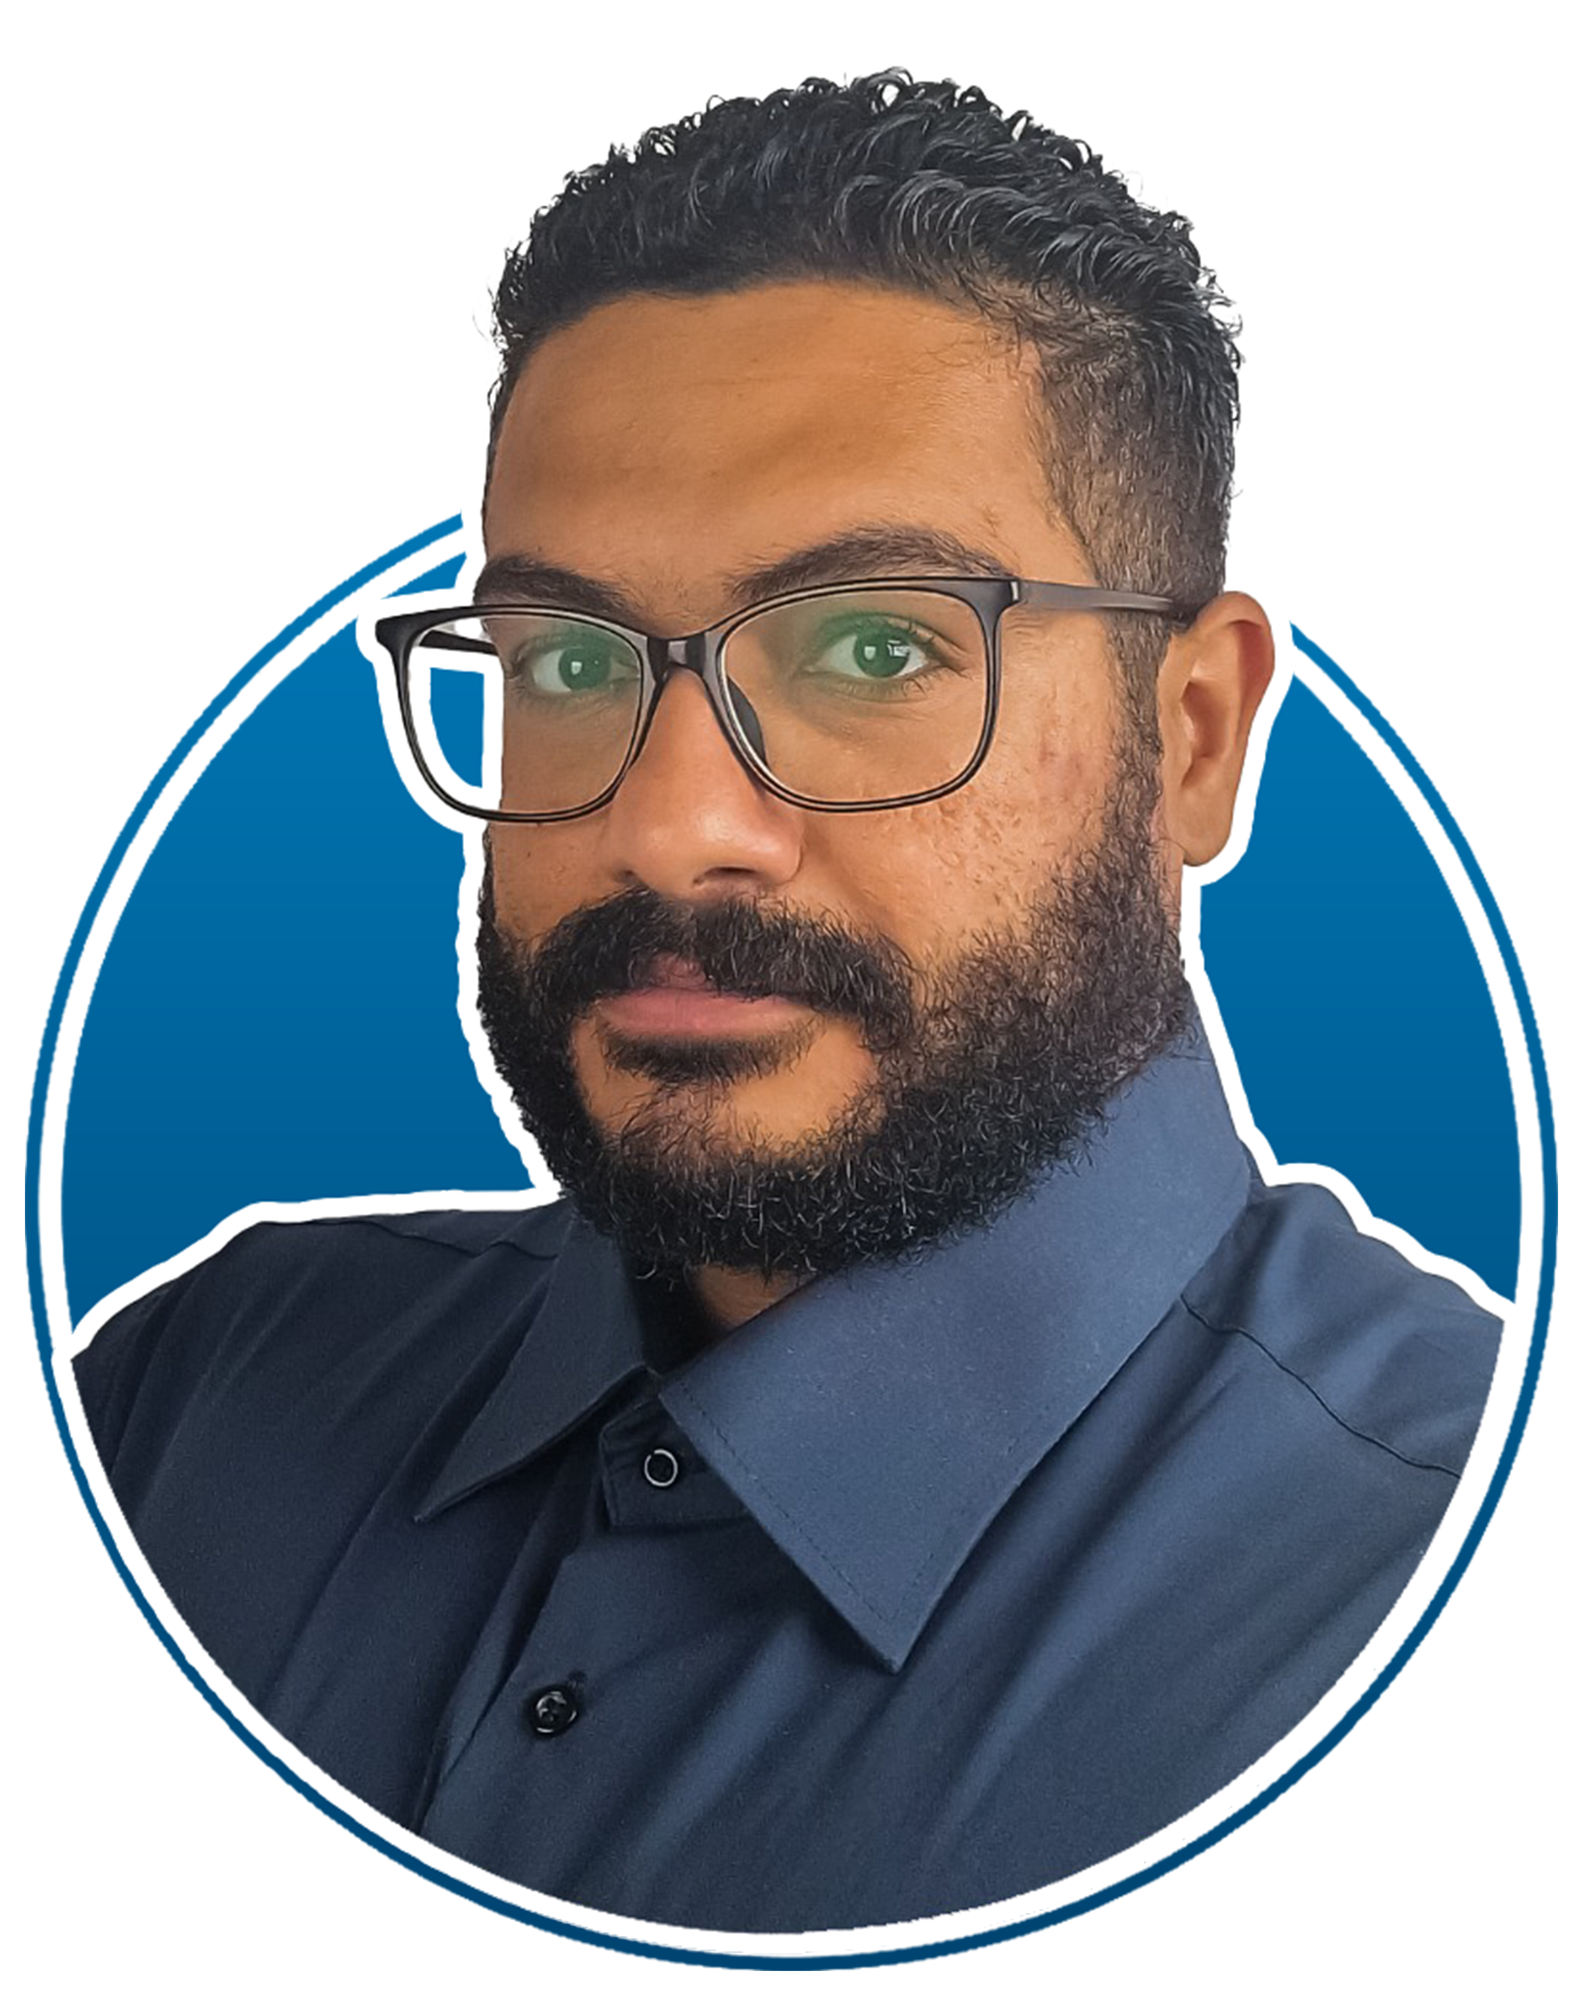
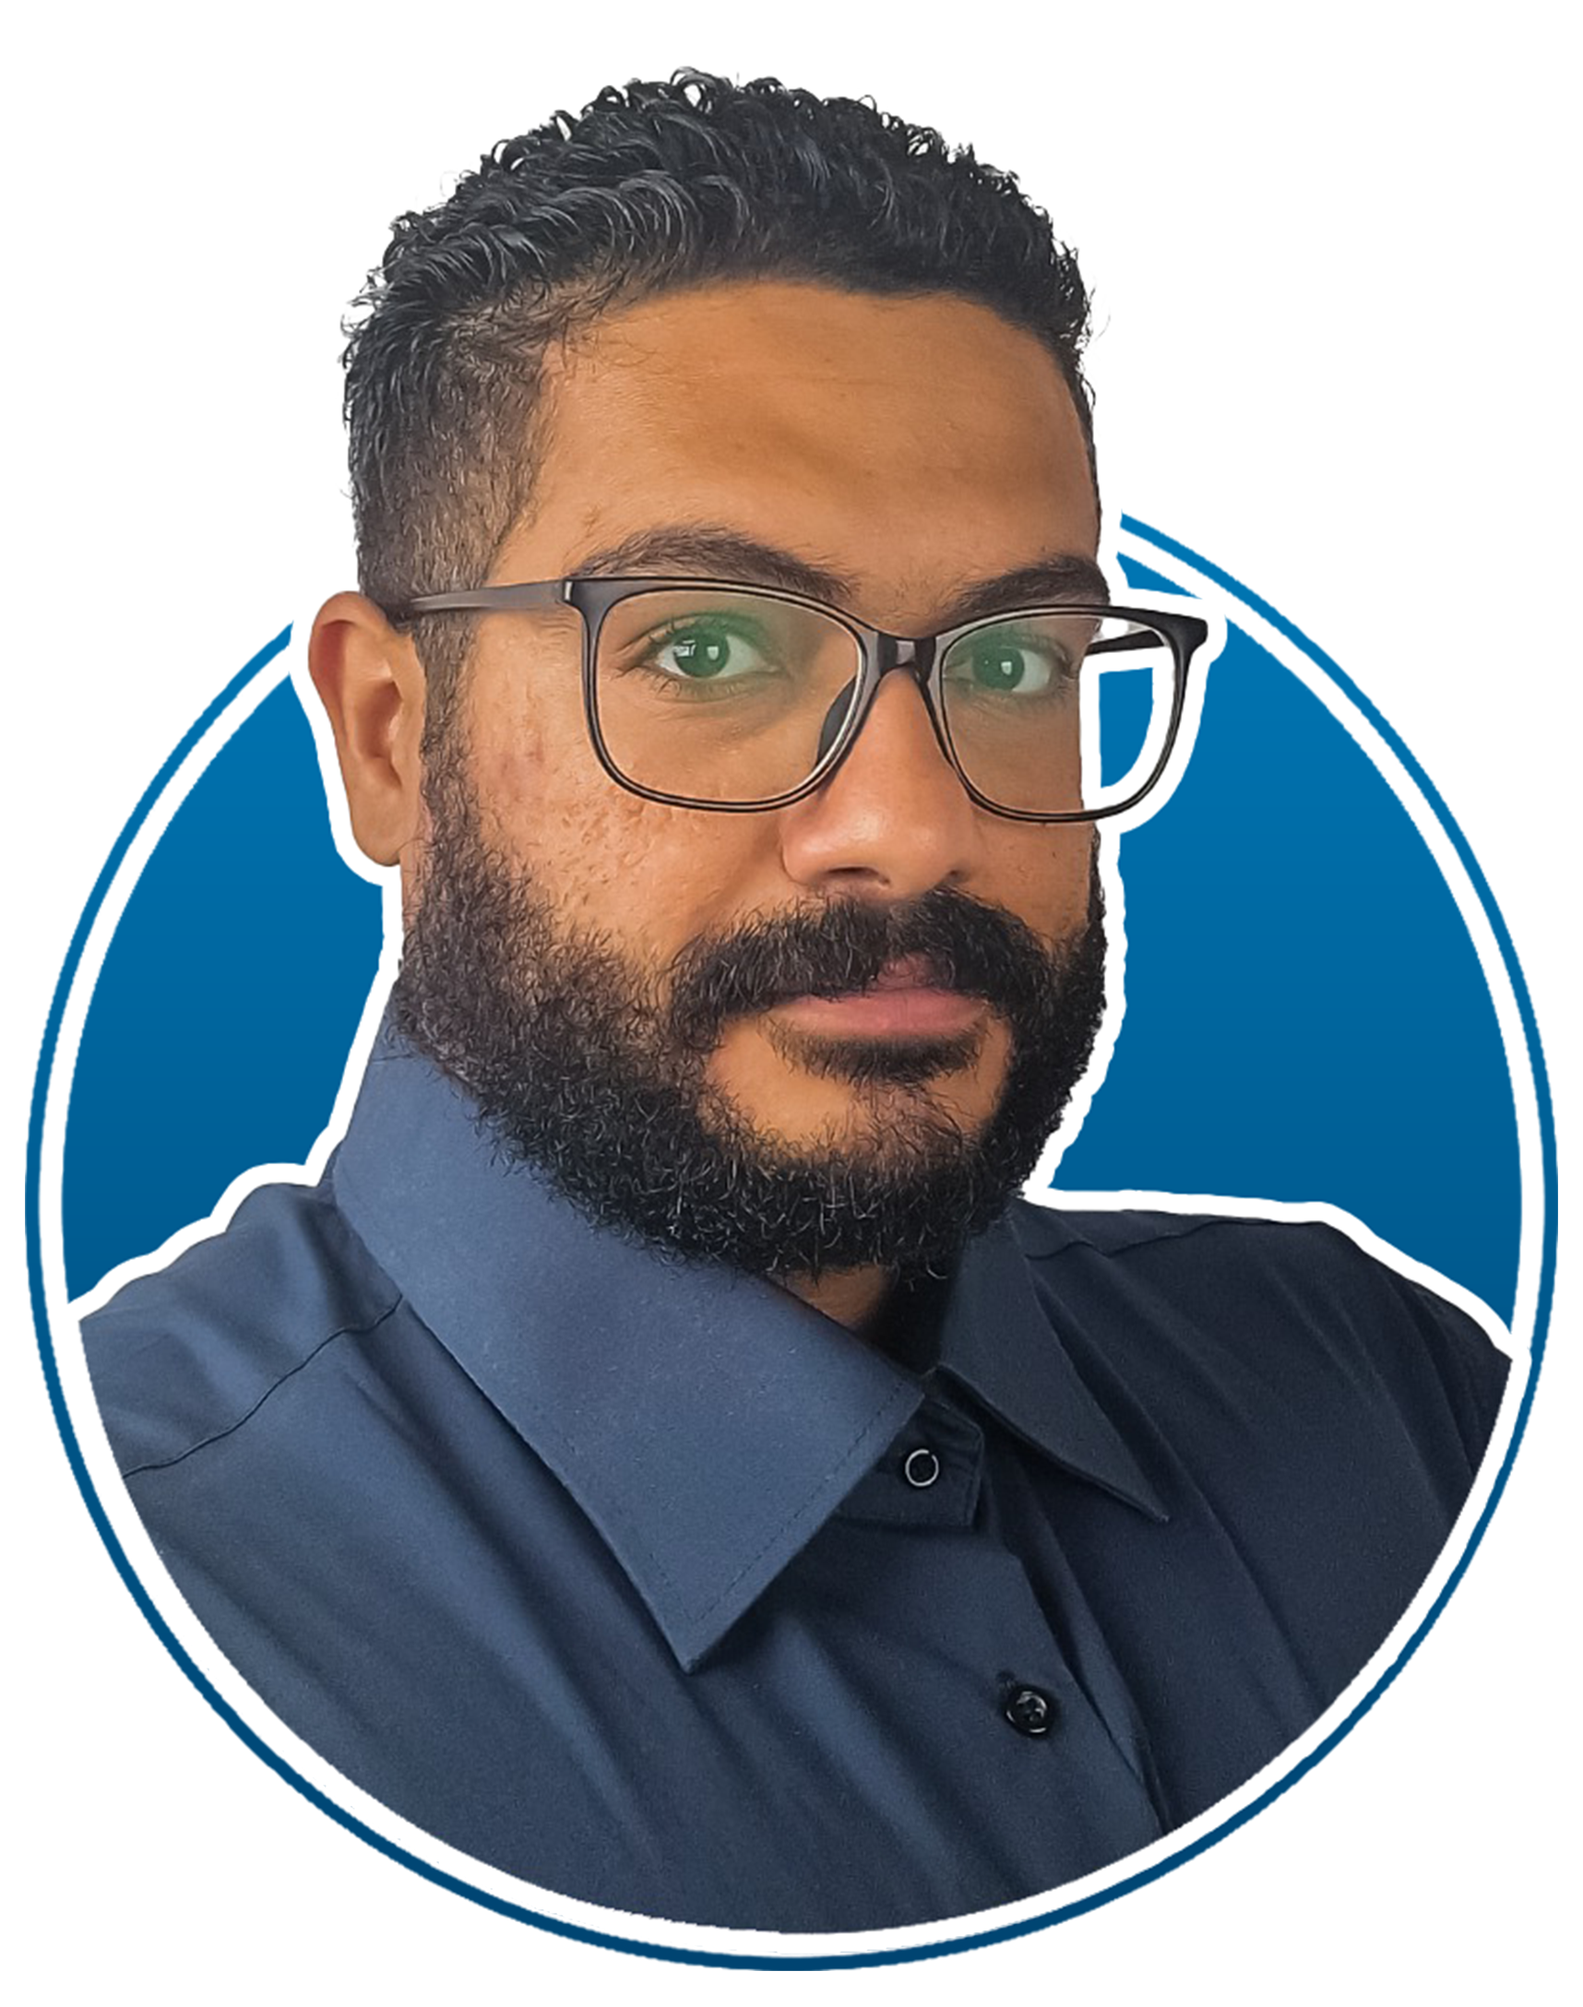
12.04.2025 - 12:33

diff --git a/projects.html b/projects.html
@@ -23,7 +23,7 @@
 
         <nav class="navbar navbar-expand-lg navbar-light bg-white py-3">
             <div class="container px-5">
-                <a class="navbar-brand" href="index.html"><span class="fw-bolder text-primary">Mena Dawod</span></a>
+                <a class="navbar-brand" href="index.html"><span class="fw-bolder text-gradient">Mena Dawod</span></a>
                 <button class="navbar-toggler" type="button" data-bs-toggle="collapse"
                     data-bs-target="#navbarSupportedContent" aria-controls="navbarSupportedContent"
                     aria-expanded="false" aria-label="Toggle navigation"><span
@@ -42,41 +42,149 @@
         <!-- Projects Section-->
         <section class="py-5">
             <div class="container px-5 mb-5">
+
                 <div class="text-center mb-5">
-                    <h1 class="display-5 fw-bolder mb-0"><span class="text-gradient d-inline">Projects</span></h1>
+                    <h1 class="display-5 fw-bolder mb-0"><span class="text-gradient d-inline">Projekte</span></h1>
                 </div>
+
                 <div class="row gx-5 justify-content-center">
+
                     <div class="col-lg-11 col-xl-9 col-xxl-8">
-                        <!-- Project Card 1-->
+
+                        <!-- Main Project -->
                         <div class="card overflow-hidden shadow rounded-4 border-0 mb-5">
                             <div class="card-body p-0">
                                 <div class="d-flex align-items-center">
                                     <div class="p-5">
-                                        <h2 class="fw-bolder">Project Name 1</h2>
-                                        <p>Lorem ipsum dolor sit amet consectetur adipisicing elit. Eius at enim eum
-                                            illum aperiam placeat esse? Mollitia omnis minima saepe recusandae libero,
-                                            iste ad asperiores! Explicabo commodi quo itaque! Ipsam!</p>
+                                        <h2 class="fw-bolder text-center mb-4">Modernes Steuerungs- und Monitoringsystem für Textilmaschinen</h2>
+                                        <p>
+                                            Im Rahmen eines laufenden Projekts entwickle ich ein bestehendes Steuerungs-
+                                            und Überwachungssystem für industrielle Textilmaschinen neu – mit Fokus auf
+                                            moderne Technologien, verbesserte Benutzerfreundlichkeit und zukunftssichere
+                                            Architektur.
+                                        </p>
+                                        <p>
+                                            Die neue Lösung basiert auf:
+                                        </p>
+                                        <ul>
+                                            <li><strong>C# & Blazor</strong> für ein dynamisch, webbasiertes Frontend
+                                            </li>
+                                            <li><strong>NATS</strong> für leichte und performante Echtzeitkommunikation
+                                            </li>
+                                            <li><strong>Modulare Architektur</strong> zur einfachen Erweiterung um
+                                                Monitoring, Cloud-Anbindung und Zugriffskontrolle</li>
+                                        </ul>
+                                        <p>
+                                            Ziel ist eine intuitive Bedienoberfläche mit integrierten
+                                            Remote-Support-Funktionen, die sich nahtlos in bestehende
+                                            Maschinenumgebungen einfügt – ausgelegt für die Anforderungen der modernen
+                                            Textilproduktion.
+                                        </p>
                                     </div>
-                                    <img class="img-fluid" src="https://dummyimage.com/300x400/343a40/6c757d"
-                                        alt="..." />
                                 </div>
                             </div>
                         </div>
-                        <!-- Project Card 2-->
-                        <div class="card overflow-hidden shadow rounded-4 border-0">
+
+                        <!-- Sub Projects -->
+                        <div class="card overflow-hidden shadow rounded-4 border-0 mb-5">
                             <div class="card-body p-0">
                                 <div class="d-flex align-items-center">
                                     <div class="p-5">
-                                        <h2 class="fw-bolder">Project Name 2</h2>
-                                        <p>Lorem ipsum dolor sit amet consectetur adipisicing elit. Eius at enim eum
-                                            illum aperiam placeat esse? Mollitia omnis minima saepe recusandae libero,
-                                            iste ad asperiores! Explicabo commodi quo itaque! Ipsam!</p>
+                                        <h2 class="fw-bolder text-center mb-4">Agile Entwicklung kundenspezifischer Features</h2>
+                                        <p>
+                                            Neben der Neuentwicklung des Steuerungssystems arbeite ich gleichzeitig an
+                                            weiteren Projekten und Features – flexibel und zielorientiert je nach
+                                            Kundenbedarf.
+                                        </p>
+                                        <p>
+                                            Zuletzt habe ich unter anderem:
+                                        </p>
+                                        <ul>
+                                            <li>Frontend-Erweiterungen umgesetzt, basierend auf konkreten Kundenwünschen
+                                            </li>
+                                            <li>Die Kommunikation zwischen Frontend und Backend erfolgreich finalisiert
+                                            </li>
+                                            <li>Anpassungen vorgenommen, um neue Anforderungen direkt in bestehende
+                                                Strukturen zu integrieren</li>
+                                        </ul>
+                                        <p>
+                                            So entsteht Schritt für Schritt ein skalierbares System, das sowohl
+                                            standardisierte Funktionen als auch maßgeschneiderte Lösungen unterstützt –
+                                            effizient entwickelt und praxisnah umgesetzt.
+                                        </p>
                                     </div>
-                                    <img class="img-fluid" src="https://dummyimage.com/300x400/343a40/6c757d"
-                                        alt="..." />
                                 </div>
                             </div>
                         </div>
+
+                        <!-- Personal Projects -->
+                        <div class="card overflow-hidden shadow rounded-4 border-0 mb-5">
+                            <div class="card-body p-0">
+                                <div class="d-flex align-items-center">
+                                    <div class="p-5">
+                                        <h2 class="fw-bolder text-center mb-4">Persönliche Projekte mit Leidenschaft für Design und Technik</h2>
+                                        <p>
+                                            Die Umsetzung dieser Website war ein persönliches Herzensprojekt –
+                                            entstanden in meiner Freizeit, mit viel Spaß am Design und an der Technik.
+                                        </p>
+                                        <p>
+                                            Nebenbei entwickle ich regelmäßig kleinere Tools und Anwendungen, die mir
+                                            den Alltag erleichtern – von einfachen Automatisierungen bis hin zu
+                                            nützlichen Helfern für den Entwicklungsprozess.
+                                        </p>
+                                    </div>
+                                </div>
+                            </div>
+                        </div>
+
+                        <!-- Calculator -->
+                        <div class="card overflow-hidden shadow rounded-4 border-0 mb-5">
+                            <div class="card-body p-0">
+                                <div class="d-flex align-items-center">
+                                    <div class="p-5">
+                                        <h2 class="fw-bolder text-center mb-4">Masterbatch-Rechner für den Spritzguss-Alltag</h2>
+                                        <p>
+                                            Während meiner Zeit in einer Kunststofffirma bestand die tägliche
+                                            Herausforderung darin, schnell und präzise die benötigte Menge an
+                                            Farbmitteln (Masterbatch oder Pigment) pro Spritzguss-Schuss zu berechnen.
+                                        </p>
+                                        <p>
+                                            Um den Prozess zu vereinfachen, habe ich eine eigene kleine Web-App
+                                            entwickelt, die alle nötigen Eingaben entgegennimmt und das Ergebnis
+                                            zuverlässig berechnet – einfach, schnell und jederzeit verfügbar.
+                                        </p>
+                                    </div>
+                                </div>
+                            </div>
+                        </div>
+
+                        <!-- Scan to Pdf -->
+                        <div class="card overflow-hidden shadow rounded-4 border-0 mb-5">
+                            <div class="card-body p-0">
+                                <div class="d-flex align-items-center">
+                                    <div class="p-5">
+                                        <h2 class="fw-bolder text-center mb-4">Tool zur schnellen Chargenerfassung per QR-Code</h2>
+                                        <p>
+                                            In meiner Zeit als Facharbeiter in der Meltblown-Vlies-Fertigung kam es
+                                            gelegentlich vor, dass komplette Paletten aus dem System entfernt werden
+                                            mussten. Dafür war es nötig, die genaue Chargennummer über einen QR-Code zu
+                                            ermitteln – ein aufwändiger Prozess, wenn viele Codes betroffen waren.
+                                        </p>
+                                        <p>
+                                            Um das zu vereinfachen, habe ich ein kleines Tool entwickelt: Ich scanne die
+                                            benötigten QR-Codes ein, das Skript extrahiert automatisch die relevanten
+                                            Chargennummern, und per Knopfdruck wird ein übersichtliches PDF erzeugt –
+                                            genau mit den Daten, die ich zum Löschen benötigte.
+                                        </p>
+                                        <p>
+                                            Eine schnelle Lösung, die mir viel Zeit gespart und den Arbeitsablauf
+                                            deutlich effizienter gemacht hat.
+                                        </p>
+                                    </div>
+                                </div>
+                            </div>
+                        </div>
+
                     </div>
                 </div>
             </div>
@@ -91,7 +199,6 @@
                 </div>
             </div>
         </section>
-
 
     </main>
 

diff --git a/index.html b/index.html
@@ -39,8 +39,20 @@
             </div>
         </nav>
         <header class="py-5">
+
             <div class="container px-5 pb-5">
                 <div class="row gx-5 align-items-center">
+                    <div class="col-xxl-5">
+                        <!-- Header profile picture-->
+                        <div class="d-flex justify-content-left mt-5 mt-xxl-0">
+                            <div class="profile ">
+                                <img class="profile-img" src="assets/profile.png" alt="Profile Pic!" />
+                            </div>
+                        </div>
+                    </div>
+                    
+                    <div class="col-xxl-2"></div>
+
                     <div class="col-xxl-5">
                         <!-- Header text content-->
                         <div class="text-center text-xxl-start">
@@ -59,14 +71,9 @@
                             </div>
                         </div>
                     </div>
-                    <div class="col-xxl-7">
-                        <!-- Header profile picture-->
-                        <div class="d-flex justify-content-center mt-5 mt-xxl-0">
-                            <div class="profile ">
-                                <img class="profile-img" src="assets/profile.png" alt="Profile Pic!" />
-                            </div>
-                        </div>
-                    </div>
+
+                    
+                    
                 </div>
             </div>
             </div>

diff --git a/contact.html b/contact.html
@@ -17,7 +17,7 @@
         <main class="flex-shrink-0">
             <nav class="navbar navbar-expand-lg navbar-light bg-white py-3">
                 <div class="container px-5">
-                    <a class="navbar-brand" href="index.html"><span class="fw-bolder text-primary">Mena Dawod</span></a>
+                    <a class="navbar-brand" href="index.html"><span class="fw-bolder text-gradient">Mena Dawod</span></a>
                     <button class="navbar-toggler" type="button" data-bs-toggle="collapse" data-bs-target="#navbarSupportedContent" aria-controls="navbarSupportedContent" aria-expanded="false" aria-label="Toggle navigation"><span class="navbar-toggler-icon"></span></button>
                     <div class="collapse navbar-collapse" id="navbarSupportedContent">
                         <ul class="navbar-nav ms-auto mb-2 mb-lg-0 small fw-bolder">

diff --git a/resume.html b/resume.html
@@ -23,9 +23,7 @@
     
     <nav class="navbar navbar-expand-lg navbar-light bg-white py-3">
       <div class="container px-5">
-        <a class="navbar-brand" href="index.html">
-          <h1 class="text-gradient">Mena Dawod</h1>
-        </a>
+        <a class="navbar-brand" href="index.html"><span class="fw-bolder text-gradient">Mena Dawod</span></a>
         <button class="navbar-toggler" type="button" data-bs-toggle="collapse" data-bs-target="#navbarSupportedContent"
           aria-controls="navbarSupportedContent" aria-expanded="false" aria-label="Toggle navigation">
           <span class="navbar-toggler-icon"></span>
@@ -48,6 +46,7 @@
         </div>
       </div>
     </nav>
+    
     <div class="container px-5 my-5">
 
       <div class="text-center mb-5">
